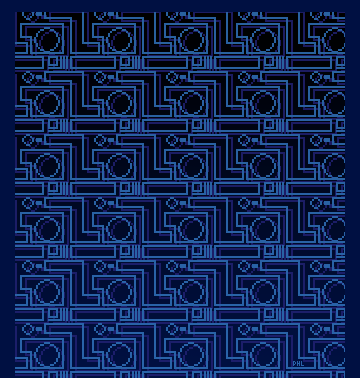
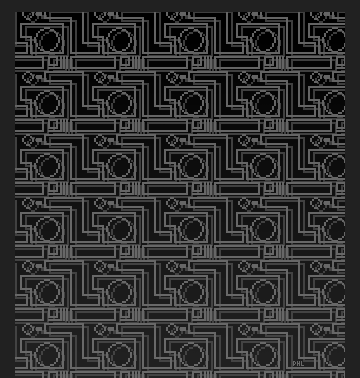
Performance optimisations, change of colour scheme

diff --git a/paranoid_canvas_game/index.html b/paranoid_canvas_game/index.html
@@ -1,7 +1,7 @@
 <!doctype html>
 <head>
 <meta charset="utf-8">
-<title>Paranoid 0.3 - Revenge of D'oh!</title>
+<title>Paranoid 0.4 - Revenge of D'oh!</title>
 
 <meta name="viewport" content="width=372,user-scalable=no">
 
@@ -15,7 +15,7 @@
 
 html, body { margin: 0; padding: 0; }
 html { margin: 5px; }
-body { font: 10px Adore64, sans-serif; background-color: #000031; color: #fff; width: 360px; margin: 24px auto 0 auto; position: relative; }
+body { font: 10px Adore64, sans-serif; background-color: #212121; color: #fff; width: 360px; margin: 24px auto 0 auto; position: relative; }
 h1,h2 { font-size: 20px; margin: 0; padding: 0; text-transform: uppercase; color: #f00; }
 h2 { margin-bottom: 8px; }
 p { margin: 0; padding: 0; }
@@ -31,6 +31,12 @@ dt { float: left; }
 	body { font-size: 6px; margin: 0 auto; }
 	canvas { margin: 2px 0; }
 }
+
+@-o-viewport {
+	width: 372px auto;
+	orientation: portrait; // not implemented yet?
+	resolution: device; // not implemented yet?
+}
 </style>
 
 <script>
@@ -38,11 +44,12 @@ dt { float: left; }
 var paranoid = {
 	ctx: new Object(),
 	autopilot:true,
-	px:0,
-	x:145,
-	y:145,
+	px:150,
+	py:335,
+	x:185,
+	y:325,
 	dx: Math.floor(Math.random()*4+5),
-	dy: Math.floor(Math.random()*4+5),
+	dy: 0-Math.floor(Math.random()*4+5),
 	
 	img_bg : new Image(),
 	img_shadow : new Image(),
@@ -62,8 +69,6 @@ var paranoid = {
 		paranoid.img_paddle.src = 'images/paddle.png';
 		paranoid.img_ball.src = 'images/ball.png';
 		paranoid.img_brick.src = 'images/brick.png';
-		
-		paranoid.reset();
 		
 		var elem = document.getElementById('bouncy');
 
@@ -87,12 +92,24 @@ var paranoid = {
 			document.getElementById('autopilot').innerHTML+='<br>Touch to play';
 		}
 		
+		paranoid.reset();
+		
 		setInterval(paranoid.bounce,30);
 	},
 	
 	reset: function() {
+		paranoid.x=paranoid.px+27;
+		paranoid.y=paranoid.py-8;
+		
 		paranoid.bricks = [1,1,1,1,1,1,1,1,1,1];
 		paranoid.bricks_count = 10;
+		// redraw entire scene
+		paranoid.ctx.drawImage(paranoid.img_bg,0,0);
+		paranoid.ctx.drawImage(paranoid.img_shadow,0,0);
+		for(i = 0; i<10; i++) {
+				paranoid.ctx.drawImage(paranoid.img_brick,(i*32)+20,100);
+		}
+		paranoid.ctx.drawImage(paranoid.img_walls,0,0); // walls drawn last, so paddle shadow always underneath wall
 	},
 
 	auto: function(state) {
@@ -128,6 +145,16 @@ var paranoid = {
 
 	bounce: function() {
 		// the main game loop ... this is where everything happens
+
+		// draw background behind ball
+		paranoid.ctx.drawImage(paranoid.img_bg,paranoid.x,paranoid.y,8,8,paranoid.x,paranoid.y,8,8);
+		paranoid.ctx.drawImage(paranoid.img_shadow,paranoid.x,paranoid.y,8,8,paranoid.x,paranoid.y,8,8);
+		paranoid.ctx.drawImage(paranoid.img_walls,paranoid.x,paranoid.y,8,8,paranoid.x,paranoid.y,8,8);
+		
+		// draw background behind paddle
+		paranoid.ctx.drawImage(paranoid.img_bg,0,paranoid.py,360,21,0,paranoid.py,360,21);
+		paranoid.ctx.drawImage(paranoid.img_shadow,0,paranoid.py,360,21,0,paranoid.py,360,21);
+		paranoid.ctx.drawImage(paranoid.img_walls,0,paranoid.py,360,21,0,paranoid.py,360,21);
 		
 		// collision detection
 		// with bricks
@@ -139,6 +166,8 @@ var paranoid = {
 					((paranoid.y+4+paranoid.dy+8)>100)&&
 					((paranoid.y+4+paranoid.dy)<115)) {
 					hit = true;
+					paranoid.ctx.drawImage(paranoid.img_bg,(i*32)+20,100,32,15,(i*32)+20,100,32,15);
+					paranoid.ctx.drawImage(paranoid.img_shadow,(i*32)+20,100,32,15,(i*32)+20,100,32,15);
 					paranoid.bricks[i]=0;
 					paranoid.bricks_count-=1;
 					// brick to the right
@@ -157,15 +186,18 @@ var paranoid = {
 		if ((paranoid.x+paranoid.dx+8)>=340) { paranoid.dx = 0-paranoid.dx; paranoid.x=340; }
 		if (paranoid.y<=15) { paranoid.dy = 0-paranoid.dy; y=15; }
 		// with paddle
-		if ((paranoid.y+paranoid.dy+8)>=340) {
+		if (((paranoid.y+paranoid.dy+8)>=paranoid.py)&&((paranoid.y+paranoid.dy+8)<=paranoid.py+21)) {
 			if ((paranoid.px<paranoid.x)&&((paranoid.px+60)>paranoid.x)) {
 				paranoid.dy = 0-paranoid.dy; paranoid.y=340;
-			} else {
-				// lost ball
-				
-				paranoid.y=16;
 			}
 		}
+		if ((paranoid.y+paranoid.dy+8)>=paranoid.py+40) {
+				// lost ball
+				paranoid.x=paranoid.px+27;
+				paranoid.y=paranoid.py-8;
+				paranoid.dy = 0-paranoid.dy;
+		}
+				
 		paranoid.x+=paranoid.dx; paranoid.y+=paranoid.dy;
 
 		// paddle control
@@ -175,25 +207,23 @@ var paranoid = {
 		} else {
 			document.getElementById('autopilot').className="off"
 		}
-		paranoid.py=335;
+		
 		if (paranoid.px<20) { paranoid.px=20; }
 		if ((paranoid.px+60)>340) { paranoid.px=280; }
 		
-		// draw everything
-		paranoid.ctx.drawImage(paranoid.img_bg,0,0);
-		paranoid.ctx.drawImage(paranoid.img_shadow,0,0);
+		// draw everything (optimised)
+		// paranoid.ctx.drawImage(paranoid.img_bg,0,0);
+		// paranoid.ctx.drawImage(paranoid.img_shadow,0,0);
 		paranoid.ctx.drawImage(paranoid.img_ball,paranoid.x,paranoid.y);
 		
-		for(i = 0; i<10; i++) {
-			if(paranoid.bricks[i]==1) {
-				paranoid.ctx.drawImage(paranoid.img_brick,(i*32)+20,100);
-			}
-		}
-		
 		paranoid.ctx.drawImage(paranoid.img_paddle,paranoid.px,paranoid.py);
-		paranoid.ctx.drawImage(paranoid.img_walls,0,0); // walls drawn last, so paddle shadow always underneath wall
+		paranoid.ctx.drawImage(paranoid.img_walls,0,paranoid.py,360,21,0,paranoid.py,360,21); // walls drawn last, so paddle shadow always underneath wall
 		
-		if (paranoid.bricks_count==0) paranoid.reset();
+		if (paranoid.bricks_count==0) {
+			paranoid.dy = 0-paranoid.dy;
+			paranoid.reset();
+		}
+			
 	}
 
 };
@@ -203,7 +233,7 @@ window.addEventListener('load',paranoid.init,false);
 </head>
 
 <body>
-<h1>Paranoid 0.3</h1>
+<h1>Paranoid 0.4</h1>
 <canvas id="bouncy" width="360" height="378"></canvas>
 <div id="controls">
 <h2>Instructions</h2>
